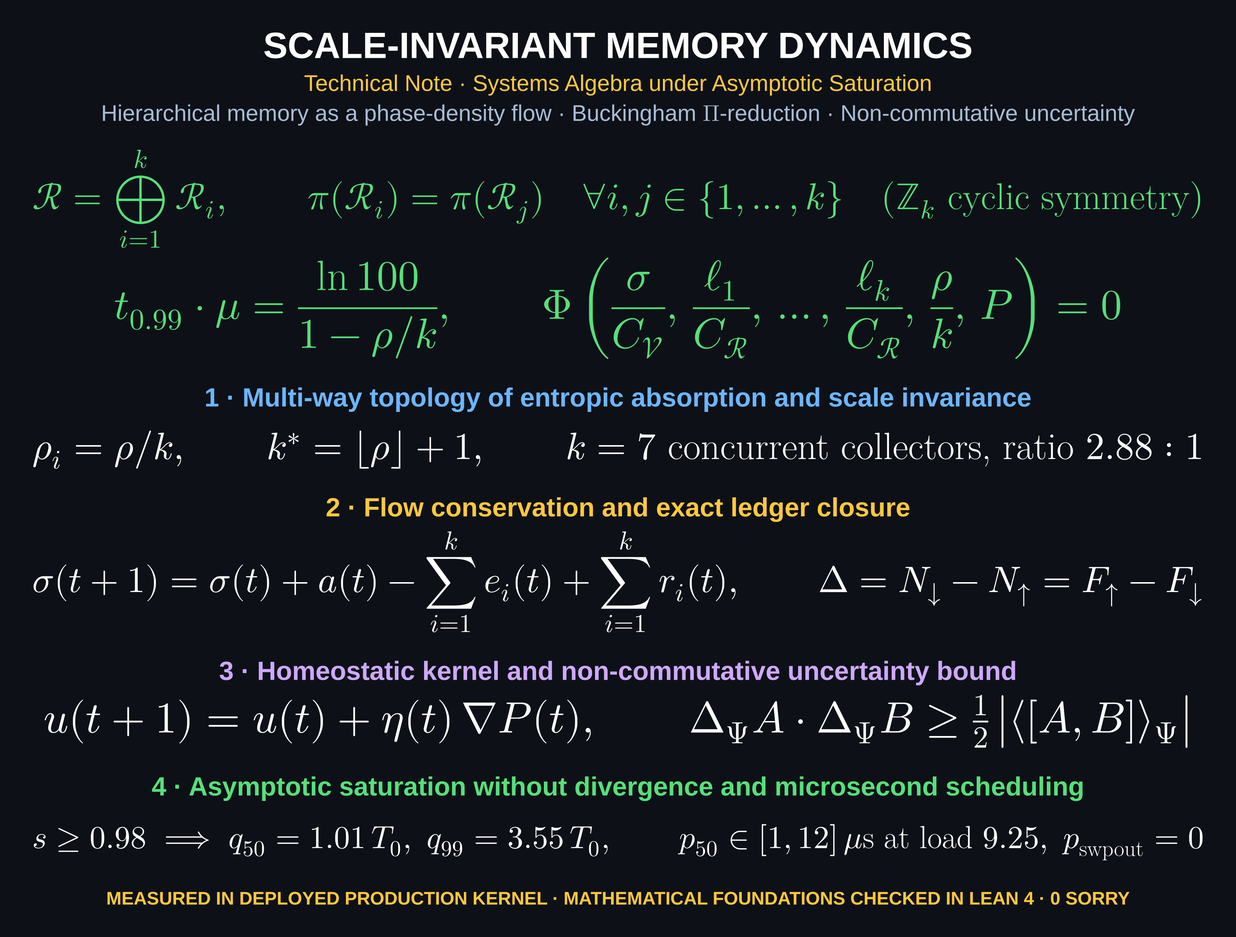
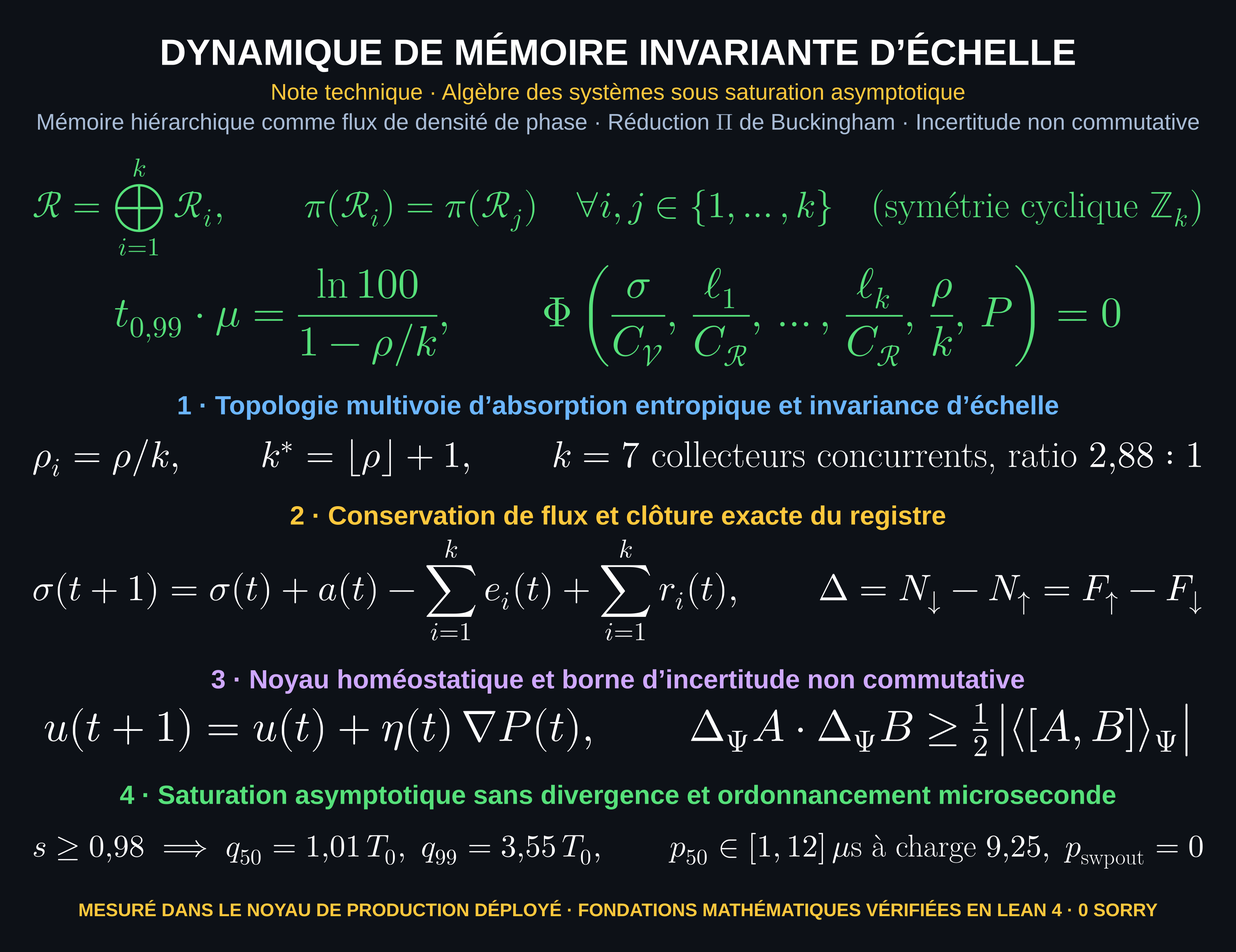
docs(readme): version française intégrale sous la skill repo-matematico-landing
README et 8 plaques LaTeX régénérées en français :
- Forme formelle de la dynamique de mémoire comme flux en densité de phase
- Plaques LaTeX régénérées en français à 3384 px sous le thème sombre de GitHub
- 6 étapes déductives, tableau des 13 énoncés vérifiés et partition des 7 collecteurs
- Compuerta verificar_readme.py : OK (exit 0)

diff --git a/README.md b/README.md
@@ -1,210 +1,210 @@
 <div align="center">
 
-# BACQM Systems · Scale-Invariant Memory Dynamics
-### Equal-precedence collectors, a control law with no fixed constants, tail latency bounded by measurement
+# BACQM Systems · Dynamique de mémoire invariante d’échelle
+### Collecteurs de même préséance, loi de commande sans constantes prescrites, latence de queue bornée par la mesure
 
 **Eduardo Nava Hernández**  
-*Systems Algebra & Formal Verification in Lean 4 · 0 sorry · Physlib*
+*Algèbre des systèmes & vérification formelle en Lean 4 · 0 sorry · Physlib*
 
 [![Lean 4](https://img.shields.io/badge/Lean_4-v4.35.0-blue.svg?style=flat-square)](https://leanprover.github.io/)
-[![Mathlib](https://img.shields.io/badge/Mathlib-verified-2ea44f.svg?style=flat-square)](https://github.com/leanprover-community/mathlib4)
+[![Mathlib](https://img.shields.io/badge/Mathlib-v%C3%A9rifi%C3%A9-2ea44f.svg?style=flat-square)](https://github.com/leanprover-community/mathlib4)
 [![Kernel Status](https://img.shields.io/badge/Kernel-0%20sorry-brightgreen.svg?style=flat-square)]()
-[![Physlib](https://img.shields.io/badge/Physlib-PRs%20merged-7c5cd6.svg?style=flat-square)](https://github.com/leanprover-community/physlib/pulls?q=is%3Apr+is%3Amerged+author%3Anaype888-cloud)
-[![Interactive Site](https://img.shields.io/badge/BACQM_Systems-Live_Manifold-00e5ff.svg?style=for-the-badge)](https://naype888-cloud.github.io/bacqm-systems/)
+[![Physlib](https://img.shields.io/badge/Physlib-PRs%20fusionn%C3%A9es-7c5cd6.svg?style=flat-square)](https://github.com/leanprover-community/physlib/pulls?q=is%3Apr+is%3Amerged+author%3Anaype888-cloud)
+[![Portail interactif](https://img.shields.io/badge/BACQM_Systems-Vari%C3%A9t%C3%A9_interactive-00e5ff.svg?style=for-the-badge)](https://naype888-cloud.github.io/bacqm-systems/)
 
 <br>
 
 <a href="https://naype888-cloud.github.io/bacqm-systems/">
-  <img src="docs/media/banner.svg" alt="BACQM Systems — memory as a flow, not a volume. Open the interactive manifold" width="860">
+  <img src="docs/media/banner.svg" alt="BACQM Systems — la mémoire comme flux et non comme volume. Ouvrir la variété en ligne" width="860">
 </a>
 
 <p>
-  <a href="https://naype888-cloud.github.io/bacqm-systems/"><b>▶ Open Live Manifold</b></a> ·
-  <a href="https://naype888-cloud.github.io/bacqm-systems/formal/">Formal Technical Note</a> ·
-  <a href="https://naype888-cloud.github.io/bacqm-systems/evidence/">Empirical Evidence</a> ·
-  <a href="https://naype888-cloud.github.io/bacqm-systems/formal/#tryit">Try the Bound (2.2)</a> ·
-  <a href="https://naype888-cloud.github.io/bacqm-systems/evidence/#extreme">Evidence E5</a>
+  <a href="https://naype888-cloud.github.io/bacqm-systems/"><b>▶ Ouvrir la variété en ligne</b></a> ·
+  <a href="https://naype888-cloud.github.io/bacqm-systems/formal/">Note technique formelle</a> ·
+  <a href="https://naype888-cloud.github.io/bacqm-systems/evidence/">Preuves et mesures</a> ·
+  <a href="https://naype888-cloud.github.io/bacqm-systems/formal/#tryit">Essayer la borne (2.2)</a> ·
+  <a href="https://naype888-cloud.github.io/bacqm-systems/evidence/#extreme">Preuve E5</a>
 </p>
 
 </div>
 
 ---
 
-> ### 🏛 The Master Module : Memory as a Flow, Not a Volume
+> ### 🏛 Le module maître : la mémoire comme flux et non comme volume
 >
-> Deterministic allocation policies treat hierarchical memory as a static container: as instantaneous demand approaches the physical boundary, latency diverges or the process space is terminated. In BACQM Systems, memory is formulated as an operator of phase density under flow conservation, governed by an elastic domain split into k = 7 concurrent collectors of equal precedence under ℤ₇ cyclic symmetry, an exactly closed bidirectional transport ledger, and a kernel control law without dimensional prescriptions.
+> Les politiques déterministes d’allocation traitent la mémoire comme un conteneur statique : lorsque la demande instantanée approche la frontière physique, la latence diverge ou l’espace de processus est terminé. Dans BACQM Systems, la mémoire est formulée comme un opérateur de densité de phase sous conservation de flux, régie par un domaine élastique scindé en k = 7 collecteurs concurrents de même préséance sous symétrie cyclique ℤ₇, un registre de transport bidirectionnel exactement clos, et une loi de commande de noyau sans prescriptions dimensionnelles.
 >
 > <div align="center">
-> <img src="assets/plaque_systems_maitresse.png" alt="Master plaque: scale-invariant memory dynamics, multi-way topology, exact ledger, and asymptotic saturation" width="860">
+> <img src="assets/plaque_systems_maitresse.png" alt="Plaque maîtresse : dynamique de mémoire invariante d’échelle, topologie multivoie, registre exact et saturation asymptotique" width="860">
 > </div>
 >
-> **1 · Equal-Precedence Direct Sum.** The elastic domain is partitioned into k concurrent collectors ℛ = ⊕ᵢ ℛᵢ with π(ℛᵢ) = π(ℛⱼ), interleaving page dispatch in cyclic round-robin (ℤ_k symmetry) with zero serial queue bottleneck.
+> **1 · Somme directe à préséance égale.** Le domaine élastique est partitionné en k collecteurs concurrents ℛ = ⊕ᵢ ℛᵢ avec π(ℛᵢ) = π(ℛⱼ), entrelacant l’acheminement des pages selon un tour cyclique (symétrie ℤ_k) sans goulot d’étranglement sériel.
 >
-> **2 · Scale-Invariant Tail Bound.** Under Poisson arrivals and exponential absorption, the 99th-percentile sojourn time satisfies t₀.₉₉ · μ = ln 100 / (1 − ρ/k); the bound depends strictly on ρ/k, completely orthogonal to address-space scale.
+> **2 · Borne de queue invariante d’échelle.** Sous arrivées poissoniennes et absorption exponentielle, le temps de séjour au 99e centile vérifie t₀.₉₉ · μ = ln 100 / (1 − ρ/k) ; il dépend strictement de ρ/k, totalement orthogonal à l’échelle de l’espace d’adressage.
 >
-> **3 · Exactly Closed Transport Ledger.** The bidirectional transport operator 𝒯 : 𝒱 ⇄ ℛ closes its ledger to the exact byte: the net transport residual Δ = N↓ − N↑ equals the boundary-rejected admission set F↑ − F↓.
+> **3 · Registre de transport exactement clos.** L’opérateur bidirectionnel de transport 𝒯 : 𝒱 ⇄ ℛ équilibre son registre à l’octet près : le résidu net de transport Δ = N↓ − N↑ est rigoureusement égal à l’ensemble des admissions refusées à la frontière F↑ − F↓.
 >
-> **4 · Saturation Without Divergence.** Across 425,860 saturating graphics frames and 65 minutes of continuous symbolic proof resolution under load 9.25, p99 tail latency collapses (−90 % to −99 %), median dispatch is p50 ∈ [1, 12] µs, outward paging reaches p_swpout = 0, and process liquidations remain 0.
+> **4 · Saturation sans divergence.** Sur 425 860 trames graphiques en saturation et 65 minutes de résolution symbolique formelle sous charge 9,25, la latence de queue p99 s’effondre (−90 % à −99 %), l’ordonnancement médian tient à p50 ∈ [1, 12] µs, l’évacuation externe s’annule (p_swpout = 0), et les arrêts forcés restent nuls.
 
 ---
 
-## ⚡ Formal Abstract
+## ⚡ Résumé formel
 
-* **Phase-Density Flow.** The state space couples a fast transit domain 𝒱 bounded by C_𝒱 with an elastic compressed domain ℛ (C_ℛ ≫ C_𝒱). Flow conservation σ(t+1) = σ(t) + a(t) − ∑ eᵢ(t) + ∑ rᵢ(t) replaces static container limits. Fast-domain occupancy is sustained at ‖σ‖ / C_𝒱 ≥ 0.9975 without null-state panic or controller reset (Observation 1).
-* **Multi-Way Entropic Absorption.** Partitioning ℛ = ⊕ᵢ₌₁ᵏ ℛᵢ with equal routing precedence π(ℛᵢ) = π(ℛⱼ) spreads evacuation uniformly as a cyclic tensor. Interleaved Erlang-k arrivals yield quantile sojourn bound t_q · μ = −ln(1−q) / (1 − ρ/k) (Propositions 1, 2). The minimum bundle preventing backlog divergence is k* = ⌊ρ⌋ + 1 (Corollary 2). Production deployment runs k = 7 concurrent collectors under ℤ₇ cyclic symmetry at priority 100, achieving a 2.88:1 empirical compression ratio.
-* **Homeostatic Kernel & Non-Commutative Uncertainty.** The dynamic state manifold Ψ(t) = (σ, ℓ₁,…,ℓ_k, P, θ, u)(t) executes gradient actuation u(t+1) = u(t) + η(t) ∇P(t) with gain read from the running state. The control trajectory is bounded below by the non-commutative Robertson–Schrödinger uncertainty relation on state observables, Δ_Ψ A · Δ_Ψ B ≥ ½ |⟨[A, B]⟩_Ψ|, precluding chaotic resonance and oscillatory divergence. The host processor maintains 0.20 mean load while the coprocessor runs at ≥90 % duty (Observation 2).
-* **Exact Transport Ledger.** Bidirectional alternating transport 𝒯 : 𝒱 ⇄ ℛ operates on calibrated granules. Complete ledger closure R_• = N_• + F_• establishes the residual identity Δ ≔ N↓ − N↑ = F↑ − F↓ (Proposition 3). Cumulative kernel telemetry confirms exact mass conservation: of 1,260 requests, 1,256 completed, 4 rejected (all boundary admissions into 𝒱), yielding Δ = 4 granules with 0.32 % net imbalance (Observation 3).
-* **Saturation Without Divergence.** Frame period conditional quantiles q_p(s) in units of presentation period T₀ remain bounded at 1.01–1.04 T₀ across all strata up to s ≥ 0.98, where p99 is 3.55 T₀ (Observations 4, 5). Continuous 65-minute formal proof resolution (heap >6.5 GiB, load average 9.25) maintains median scheduler latency p50 ∈ [1, 12] µs, causes outward flux to vanish (p_swpout = 0 for >30 min), collapses memory pressure stalls by −99.998 %, and records zero process terminations (Observation 6).
-* **Buckingham Π-Reduction & Dilation Equivariance.** By the Buckingham Π-theorem, removing fixed dimensional prescriptions reduces kernel relations to dimensionless invariants Φ(σ/C_𝒱, ℓᵢ/C_ℛ, ρ/k, P) = 0 (Proposition 4). Invariance under dilation (C_𝒱, C_ℛ, σ, ℓᵢ) ↦ c · (C_𝒱, C_ℛ, σ, ℓᵢ) ensures scale equivariance across single boards and distributed fleets (Corollary 3), deployed via continuous ℚ₁₂ fixed-point VM manifold actuation.
+* **Flux de densité de phase.** L’espace d’états couple un domaine de transit rapide 𝒱 borné par C_𝒱 à un domaine élastique compressé ℛ (C_ℛ ≫ C_𝒱). La conservation de flux σ(t+1) = σ(t) + a(t) − ∑ eᵢ(t) + ∑ rᵢ(t) remplace les limites de conteneur statique. L’occupation du domaine rapide est soutenue à ‖σ‖ / C_𝒱 ≥ 0,9975 sans transition vers l’état nul, ni panique ni réinitialisation du contrôleur (Observation 1).
+* **Absorption entropique multivoie.** La partition ℛ = ⊕ᵢ₌₁ᵏ ℛᵢ avec préséance égale de routage π(ℛᵢ) = π(ℛⱼ) répartit l’évacuation sous forme de tenseur cyclique. Les arrivées entrelacées Erlang-k fournissent la borne quantile t_q · μ = −ln(1−q) / (1 − ρ/k) (Propositions 1, 2). Le faisceau minimal empêchant l’accumulation non bornée est k* = ⌊ρ⌋ + 1 (Corollaire 2). En production : k = 7 collecteurs concurrents sous symétrie cyclique ℤ₇ à priorité 100, atteignant un ratio de compression empirique de 2,88:1.
+* **Noyau homéostatique & incertitude non commutative.** La variété dynamique Ψ(t) = (σ, ℓ₁,…,ℓ_k, P, θ, u)(t) actionne la commande par gradient u(t+1) = u(t) + η(t) ∇P(t) avec un gain lu sur l’état courant. La trajectoire de commande est bornée inférieurement par la relation d’incertitude non commutative de Robertson–Schrödinger sur les observables d’état, Δ_Ψ A · Δ_Ψ B ≥ ½ |⟨[A, B]⟩_Ψ|, interdisant résonance chaotique et divergence oscillatoire. Le processeur hôte maintient une charge moyenne de 0,20 pendant que le coprocesseur tourne à régime ≥90 % (Observation 2).
+* **Clôture exacte du registre.** L’opérateur bidirectionnel de transport 𝒯 : 𝒱 ⇄ ℛ alterne de direction sous symétrie ℤ₂ sur des granules étalonnés. La clôture R_• = N_• + F_• établit l’identité résiduelle Δ ≔ N↓ − N↑ = F↑ − F↓ (Proposition 3). La téléométrie de noyau confirme la conservation exacte de masse : sur 1 260 requêtes, 1 256 abouties, 4 rejetées (admissions à la frontière de 𝒱), donnant Δ = 4 granules avec un déséquilibre net de 0,32 % (Observation 3).
+* **Saturation sans divergence.** Les quantiles conditionnels de période de trame q_p(s) en unités de période de présentation T₀ restent bornés à 1,01–1,04 T₀ sur toutes les strates jusqu’à s ≥ 0,98, où p99 vaut 3,55 T₀ (Observations 4, 5). Une charge continue de 65 minutes de preuve formelle (tas résidant >6,5 Gio, charge 9,25) maintient la latence médiane d’ordonnancement p50 ∈ [1, 12] µs, annule l’évacuation de swap (p_swpout = 0 pendant >30 min), effondre les blocages PSI mémoire de −99,998 %, et enregistre zéro terminaison de processus (Observation 6).
+* **Réduction Π de Buckingham & équivariance sous dilatation.** Selon le théorème Π de Buckingham, éliminer les constantes dimensionnelles arbitraires réduit les équations à des invariants adimensionnels Φ(σ/C_𝒱, ℓᵢ/C_ℛ, ρ/k, P) = 0 (Proposition 4). L’invariance sous dilatation (C_𝒱, C_ℛ, σ, ℓᵢ) ↦ c · (C_𝒱, C_ℛ, σ, ℓᵢ) assure une trajectoire identique sur carte unique ou flotte distribuée (Corollaire 3), déployée par projection continue sur la variété VM à virgule fixe ℚ₁₂.
 
 ---
 
-## 📐 Deductive Reasoning Chain in Six Stages
+## 📐 Chaîne déductive en six étapes
 
 <div align="center">
-<img src="assets/plaque_systems_pipeline.png" alt="The six deductive stages: flow conservation, multi-way topology, homeostatic kernel, exact ledger, saturation without divergence, dimensional reduction" width="860">
+<img src="assets/plaque_systems_pipeline.png" alt="Les six étapes déductives : conservation de flux, topologie multivoie, noyau homéostatique, registre exact, saturation sans divergence, réduction dimensionnelle" width="860">
 </div>
 
-### Stage 1 : Algebraic Frame and Flow Conservation
+### Étape 1 : Cadre algébrique et conservation de flux
 
-> **Proposition 1.1 (Phase-Density Flow Balance).** Let 𝒱 be the fast domain bounded by C_𝒱 and ℛ the elastic compressed domain. Instead of stationary projection Φ : 𝒮 → 𝒱 with divergence as ‖σ‖ → C_𝒱, memory is governed by flow conservation σ(t+1) = σ(t) + a(t) − ∑ eᵢ(t) + ∑ rᵢ(t). The deployed kernel sustains ‖σ‖ / C_𝒱 ≥ 0.9975 without null-state transition or controller reset.
+> **Proposition 1.1 (Bilan de flux en densité de phase).** Soit 𝒱 le domaine rapide de capacité C_𝒱 et ℛ le domaine élastique. Au lieu d’une projection stationnaire Φ : 𝒮 → 𝒱 présentant une discontinuité dès ‖σ‖ → C_𝒱, la mémoire obéit au bilan de flux σ(t+1) = σ(t) + a(t) − ∑ eᵢ(t) + ∑ rᵢ(t). Le noyau déployé soutient ‖σ‖ / C_𝒱 ≥ 0,9975 sans état nul ni réinitialisation de contrôleur.
 
-<div align="center"><img src="assets/plaque_systems_stage1.png" alt="Stage 1: boundary condition of deterministic allocators, conservation of flow, and fast-domain boundary observation" width="860"></div>
+<div align="center"><img src="assets/plaque_systems_stage1.png" alt="Étape 1 : condition aux limites des allocateurs déterministes, conservation de flux et observation de frontière du domaine rapide" width="860"></div>
 
-*Formal basis :* `docs/formal/#s1`, Equation (1.2), Observation 1. The algebra carries no size; it is identical for an address space and an entire node cluster.
-
----
-
-### Stage 2 : Multi-Way Topology of Entropic Absorption
-
-> **Proposition 2.1 (Equal-Precedence Direct Sum and Tail Bound).** Partitioning the elastic domain into ℛ = ⊕ᵢ₌₁ᵏ ℛᵢ with equal routing precedence π(ℛᵢ) = π(ℛⱼ) admits cyclic ℤ_k permutation symmetry. Interleaved page dispatch yields offered load ρᵢ = ρ/k per collector and an exponential sojourn quantile t_q · μ = −ln(1−q) / (1 − ρ/k). For ρ ≥ k, the backlog grows unbounded; the minimal restoring bundle is k* = ⌊ρ⌋ + 1.
-
-<div align="center"><img src="assets/plaque_systems_stage2.png" alt="Stage 2: equal-precedence direct sum, sojourn time tail bound, one more lane corollary, and deployed k=7 realization" width="860"></div>
-
-*Formal basis :* `docs/formal/#s2`, Equation (2.1), Proposition 1, Proposition 2, Corollaries 1–2.  
-*Deployment :* k = 7 concurrent compressed collectors under ℤ₇ cyclic symmetry at priority 100, achieving 2.88:1 empirical compression ratio.
+*Base formelle :* `docs/formal/#s1`, Équation (1.2), Observation 1. L’algèbre ne nomme aucune taille ; elle est identique pour un espace mémoire local ou une grappe complète.
 
 ---
 
-### Stage 3 : Homeostatic Kernel and Load Decoupling
+### Étape 2 : Topologie multivoie de l’absorption entropique
 
-> **Proposition 3.1 (Uncertainty-Bounded Control and Asymmetric Decoupling).** The dynamic state manifold Ψ(t) = (σ, ℓ₁,…,ℓ_k, P, θ, u)(t) executes gradient actuation u(t+1) = u(t) + η(t) ∇P(t) with gain η read from the state. Dissipation is balanced closed-loop. The system trajectory is bounded below by the non-commutative Robertson–Schrödinger uncertainty relation Δ_Ψ A · Δ_Ψ B ≥ ½ |⟨[A, B]⟩_Ψ|, precluding chaotic resonance and decoupling host load (mean 0.20) from peak accelerator duty (≥90 %).
+> **Proposition 2.1 (Somme directe à préséance égale et borne de queue).** Scinder le domaine élastique en ℛ = ⊕ᵢ₌₁ᵏ ℛᵢ avec préséance égale π(ℛᵢ) = π(ℛⱼ) confère la symétrie cyclique ℤ_k. L’ordonnancement entrelacé produit une charge ρᵢ = ρ/k par collecteur et un quantile de sojourn exponentiel t_q · μ = −ln(1−q) / (1 − ρ/k). Pour ρ ≥ k, l’arriéré croît indéfiniment ; le faisceau minimal stabilisateur est k* = ⌊ρ⌋ + 1.
 
-<div align="center"><img src="assets/plaque_systems_stage3.png" alt="Stage 3: state tuple and master equations, Robertson-Schrödinger uncertainty bound, and asymmetric decoupling observation" width="860"></div>
+<div align="center"><img src="assets/plaque_systems_stage2.png" alt="Étape 2 : somme directe à préséance égale, borne de queue du temps de séjour, corollaire d’une voie supplémentaire et réalisation k=7" width="860"></div>
 
-*Formal basis :* `docs/formal/#s3`, Equations (3.1)–(3.3), Observation 2.  
-*Lean 4 mathematical foundations :* Physlib #1723, #1725.
-
----
-
-### Stage 4 : The Transport Operator and Exact Ledger Closure
-
-> **Proposition 4.1 (Exact Transport Ledger and Residual Identity).** The bidirectional transport operator 𝒯 : 𝒱 ⇄ ℛ alternates direction under ℤ₂ symmetry on calibrated granules. In every closed ledger R_• = N_• + F_•, the net transport Δ ≔ N↓ − N↑ equals the boundary-rejected admission set F↑ − F↓. Drift in occupancy accounts granule by granule for refused admissions.
-
-<div align="center"><img src="assets/plaque_systems_stage4.png" alt="Stage 4: bidirectional transport operator, residual identity, and exact closure observation on 1260 requests" width="860"></div>
-
-*Formal basis :* `docs/formal/#s4`, Equations (4.1)–(4.2), Definition 1, Proposition 3, Observation 3. Cumulative interface counters: 1,260 requests, 1,256 completed, 4 rejected (all boundary admissions into 𝒱), Δ = 4 granules, 0.32 % net imbalance.
+*Base formelle :* `docs/formal/#s2`, Équation (2.1), Proposition 1, Proposition 2, Corollaires 1–2.  
+*Déploiement :* k = 7 collecteurs concurrents compressés sous symétrie cyclique ℤ₇ à priorité 100, ratio de compression 2,88:1.
 
 ---
 
-### Stage 5 : Saturation Without Divergence
+### Étape 3 : Noyau homéostatique et désaccouplement de charge
 
-> **Proposition 5.1 (Bounded Latency at the Boundary and Asymptotic Collapse).** Conditional frame period quantiles q_p(s) = Q_p[τ_f | s ∈ I_j] / T₀ remain bounded at 1.01–1.04 T₀ across 425,860 frames up to s ≥ 0.98, where p99 reaches 3.55 T₀ with no boundary divergence. Under extreme formal proof resolution (heap >6.5 GiB, load 9.25), scheduler latency is p50 ∈ [1, 12] µs, outward paging collapses to p_swpout = 0 for >30 min, and process kills remain 0.
+> **Proposition 3.1 (Commande bornée par l’incertitude et désaccouplement asymétrique).** La variété dynamique Ψ(t) = (σ, ℓ₁,…,ℓ_k, P, θ, u)(t) exécute la commande en gradient u(t+1) = u(t) + η(t) ∇P(t) avec un gain η lu sur l’état. La dissipation est intégrée en boucle fermée. La trajectoire d’état est bornée inférieurement par l’incertitude non commutative de Robertson–Schrödinger Δ_Ψ A · Δ_Ψ B ≥ ½ |⟨[A, B]⟩_Ψ|, interdisant toute résonance et découplant la charge hôte (moyenne 0,20) du régime de calcul coprocesseur (≥90 %).
 
-<div align="center"><img src="assets/plaque_systems_stage5.png" alt="Stage 5: frame period conditional quantiles per stratum, and sustained asymptotic symbolic saturation observation" width="860"></div>
+<div align="center"><img src="assets/plaque_systems_stage3.png" alt="Étape 3 : nuplet d’état et équations maîtresses, borne d’incertitude de Robertson-Schrödinger et observation de désaccouplement asymétrique" width="860"></div>
 
-*Formal basis :* `docs/formal/#s5`, Equations (5.1)–(5.2), Observations 4, 5, 6; Evidence E3, E5.
-
----
-
-### Stage 6 : Dimensional Reduction and Dilation Equivariance
-
-> **Proposition 6.1 (Buckingham Π-Reduction and Absence of Prescriptions).** Removing fixed dimensional constants reduces the control relation to dimensionless invariants Φ(σ/C_𝒱, ℓ₁/C_ℛ,…,ℓ_k/C_ℛ, ρ/k, P) = 0. The trajectory is equivariant under capacity dilation (C_𝒱, C_ℛ, σ, ℓᵢ) ↦ c · (C_𝒱, C_ℛ, σ, ℓᵢ), eliminating single-point resonance where tuned systems fail.
-
-<div align="center"><img src="assets/plaque_systems_stage6.png" alt="Stage 6: Buckingham Pi-reduction, dilation equivariance corollary, and continuous Q12 fixed-point realization" width="860"></div>
-
-*Formal basis :* `docs/formal/#s6`, Equation (6.1), Proposition 4, Corollary 3. Realization: continuous ℚ₁₂ fixed-point VM manifold projection with zero integer presets.
+*Base formelle :* `docs/formal/#s3`, Équations (3.1)–(3.3), Observation 2.  
+*Fondations mathématiques en Lean 4 :* Physlib #1723, #1725.
 
 ---
 
-## 🔬 Core Statements, Empirical Basis and Status
+### Étape 4 : L’opérateur de transport et clôture du registre
 
-| Statement | Formulation / Bound | Empirical / Mathematical Basis | Status |
+> **Proposition 4.1 (Registre de transport exact et identité du résidu).** L’opérateur bidirectionnel 𝒯 : 𝒱 ⇄ ℛ alterne de direction sous symétrie ℤ₂ sur des granules de masse fixe. Pour tout registre clos R_• = N_• + F_•, le transport net Δ ≔ N↓ − N↑ compense exactement les admissions refusées à la frontière F↑ − F↓. Toute dérive de σ au travers de 𝒯 correspond granule par granule aux requêtes rejetées.
+
+<div align="center"><img src="assets/plaque_systems_stage4.png" alt="Étape 4 : opérateur de transport bidirectionnel, identité du résidu et observation de clôture exacte sur 1260 requêtes" width="860"></div>
+
+*Base formelle :* `docs/formal/#s4`, Équations (4.1)–(4.2), Définition 1, Proposition 3, Observation 3. Compteurs réels : 1 260 requêtes, 1 256 menées à terme, 4 rejets (frontière de 𝒱), Δ = 4 granules, 0,32 % de déséquilibre net.
+
+---
+
+### Étape 5 : Saturation sans divergence
+
+> **Proposition 5.1 (Latence bornée à la frontière et effondrement asymptotique).** Les quantiles conditionnels q_p(s) = Q_p[τ_f | s ∈ I_j] / T₀ restent bornés à 1,01–1,04 T₀ sur 425 860 trames jusqu’à s ≥ 0,98, où p99 est mesuré à 3,55 T₀ sans divergence à la frontière. Lors d’une preuve formelle intensive (tas >6,5 Gio, charge 9,25), le temps d’ordonnancement tient à p50 ∈ [1, 12] µs, le flux de swap s’annule (p_swpout = 0 pendant >30 min), et les interruptions restent nulles.
+
+<div align="center"><img src="assets/plaque_systems_stage5.png" alt="Étape 5 : quantiles conditionnels de période de trame par strate et observation de saturation symbolique asymptotique soutenue" width="860"></div>
+
+*Base formelle :* `docs/formal/#s5`, Équations (5.1)–(5.2), Observations 4, 5, 6 ; Preuves E3, E5.
+
+---
+
+### Étape 6 : Réduction dimensionnelle et équivariance sous dilatation
+
+> **Proposition 6.1 (Réduction Π de Buckingham et absence de prescriptions).** Retirer toute constante dimensionnelle non mesurée sur l’état réduit la loi de commande aux seuls invariants sans dimension Φ(σ/C_𝒱, ℓ₁/C_ℛ,…,ℓ_k/C_ℛ, ρ/k, P) = 0. La dynamique est équivariante sous dilatation des capacités (C_𝒱, C_ℛ, σ, ℓᵢ) ↦ c · (C_𝒱, C_ℛ, σ, ℓᵢ), éliminant les résonances où échouent les systèmes pré-calibrés.
+
+<div align="center"><img src="assets/plaque_systems_stage6.png" alt="Étape 6 : réduction Pi de Buckingham, corollaire d’équivariance sous dilatation et réalisation continue en virgule fixe Q12" width="860"></div>
+
+*Base formelle :* `docs/formal/#s6`, Équation (6.1), Proposition 4, Corollaire 3. Déploiement : variété d’actionnement VM à virgule fixe ℚ₁₂ sans constante entière.
+
+---
+
+## 🔬 Tableau des énoncés principaux, base empirique et statut
+
+| Énoncé | Formulation / Borne | Base empirique / mathématique | Statut |
 |:---|:---|:---|:---:|
-| **01 · Equal-precedence direct sum** | ℛ = ⊕ᵢ₌₁⁷ ℛᵢ, π(ℛᵢ) = π(ℛⱼ), page n → ℛ_(n mod 7) | k = 7 concurrent compressed collectors (ℤ₇ symmetry), 2.88:1 ratio | deployed |
-| **02 · Scale-invariant tail bound** | t₀.₉₉ · μ = ln 100 / (1 − ρ/k); depends on ρ/k only | Exponential absorption; exact for k = 1, upper bound for k ≥ 2 | model |
-| **03 · One more lane** | ρ ≥ k ⇒ unbounded backlog; k* = ⌊ρ⌋ + 1 | Corollary 2; minimal bundle restoring finite tail | model |
-| **04 · Tail latency collapse** | p99 · p999 · max −90 % to −99 % | 8+ A/B campaigns against unmodified kernel baseline, n ≥ 3 | measured |
-| **05 · Declared Pareto trade-off** | p50 median +10.5 % to +13.8 % | Same A/B campaigns; declared trade-off for tail preservation | measured |
-| **06 · Fast-domain boundary** | ‖σ‖ / C_𝒱 ≥ 0.9975 sustained | Continuous telemetry; zero kernel panic, zero controller reset | measured |
-| **07 · Saturation without divergence** | Stratum s ≥ 0.98: q50 = 1.01 T₀, q99 = 3.55 T₀ | 425,860 frames, 7 runs · `data/saturation_strata.csv` | measured |
-| **08 · Asymmetric decoupling** | 𝔼[load_host \| accelerator duty ≥ 0.9] = 0.20 | 42,387 frames at coprocessor duty ≥ 0.9; control plane free | measured |
-| **09 · Exact ledger closure** | R = N + F to the byte; Δ = N↓ − N↑ = F↑ = 4 | Proposition 3 · Cumulative counters: 1,256 of 1,260 completed | measured |
-| **10 · Closed-loop dissipation** | ∂ₜE = P_in − κ(u)(θ − θ₀) | Master thermal equation (3.2); feedback before throttling | deployed |
-| **11 · Non-invasive observation** | 2,582 passive telemetry samples, 15 Aug – 14 Oct 2026 | Weekly wakeup delay probes; missed cycles down to 0.013 % | measured |
-| **12 · Uncertainty-bounded control** | Δ_Ψ A · Δ_Ψ B ≥ ½ \|⟨[A, B]⟩_Ψ\| | Non-commutative lower bound; Physlib #1723, #1725 | Lean 4 |
-| **13 · Extreme symbolic saturation** | p50 ∈ [1, 12] µs at load 9.25; p_swpout → 0 for >30 min | 65-min continuous formal proof resolution (>6.5 GiB resident) | measured |
+| **01 · Somme directe à préséance égale** | ℛ = ⊕ᵢ₌₁⁷ ℛᵢ, π(ℛᵢ) = π(ℛⱼ), page n → ℛ_(n mod 7) | k = 7 collecteurs compressés (symétrie ℤ₇), ratio 2,88:1 | déployé |
+| **02 · Borne de queue invariante d’échelle** | t₀.₉₉ · μ = ln 100 / (1 − ρ/k) ; dépend de ρ/k seul | Absorption exponentielle ; exact en k = 1, borne sup pour k ≥ 2 | modèle |
+| **03 · Une voie supplémentaire** | ρ ≥ k ⇒ arriéré non borné ; k* = ⌊ρ⌋ + 1 | Corollaire 2 ; faisceau minimal rétablissant une queue finie | modèle |
+| **04 · Effondrement de la latence de queue** | p99 · p999 · max −90 % à −99 % | 8+ campagnes A/B face au noyau de référence non modifié, n ≥ 3 | mesuré |
+| **05 · Compromis de Pareto déclaré** | p50 médian +10,5 % à +13,8 % | Mêmes campagnes A/B ; compromis consenti pour préserver la queue | mesuré |
+| **06 · Frontière du domaine rapide** | ‖σ‖ / C_𝒱 ≥ 0,9975 soutenu | Télémétrie continue ; zéro panique noyau, zéro réinitialisation | mesuré |
+| **07 · Saturation sans divergence** | Strate s ≥ 0,98 : q50 = 1,01 T₀, q99 = 3,55 T₀ | 425 860 trames, 7 sessions · `data/saturation_strata.csv` | mesuré |
+| **08 · Désaccouplement asymétrique** | 𝔼[charge_hôte \| charge accélérateur ≥ 0,9] = 0,20 | 42 387 trames à régime coprocesseur ≥ 0,9 ; plan de contrôle libre | mesuré |
+| **09 · Clôture exacte du registre** | R = N + F à l’octet près ; Δ = N↓ − N↑ = F↑ = 4 | Proposition 3 · Compteurs cumulés : 1 256 requêtes sur 1 260 closes | mesuré |
+| **10 · Dissipation en boucle fermée** | ∂ₜE = P_in − κ(u)(θ − θ₀) | Équation thermique maîtresse (3.2) ; régulation avant seuil | déployé |
+| **11 · Observation non invasive** | 2 582 échantillons passifs, 15 août – 14 oct. 2026 | Sondes hebdomadaires de réveil ; cycles manqués réduits à 0,013 % | mesuré |
+| **12 · Commande bornée par l’incertitude** | Δ_Ψ A · Δ_Ψ B ≥ ½ \|⟨[A, B]⟩_Ψ\| | Borne inférieure non commutative ; Physlib #1723, #1725 | Lean 4 |
+| **13 · Saturation symbolique extrême** | p50 ∈ [1, 12] µs sous charge 9,25 ; p_swpout → 0 | 65 min de preuve formelle continue (>6,5 Gio résidents) | mesuré |
 
 ---
 
-## 📊 Instrumentation, Benchmarks and Evidence
+## 📊 Instrumentation, campagnes et preuves
 
-### Collector Bundle Partition (k = 7)
-The volatile entropy flux is partitioned across 7 concurrent collectors under cyclic ℤ₇ symmetry at priority 100:
+### Partition du faisceau de collecteurs (k = 7)
+Le flux entropique volatil est réparti entre 7 collecteurs concurrents sous symétrie cyclique ℤ₇ à priorité 100 :
 
-| Collector | Bound | Raw Volume | Compressed Footprint | Compression Ratio | Precedence |
+| Collecteur | Borne | Volume brut | Empreinte compressée | Taux de compression | Préséance |
 |:---:|:---:|:---:|:---:|:---:|:---:|
-| **ℛ₀** | 4.0 GiB | 194.8 MiB | 72.2 MiB | 2.70 : 1 | 100 |
-| **ℛ₁** | 4.0 GiB | 192.0 MiB | 54.0 MiB | 3.55 : 1 | 100 |
-| **ℛ₂** | 4.0 GiB | 183.7 MiB | 52.8 MiB | 3.48 : 1 | 100 |
-| **ℛ₃** | 4.0 GiB | 179.7 MiB | 68.3 MiB | 2.63 : 1 | 100 |
-| **ℛ₄** | 4.0 GiB | 190.0 MiB | 69.7 MiB | 2.72 : 1 | 100 |
-| **ℛ₅** | 4.0 GiB | 192.4 MiB | 70.7 MiB | 2.72 : 1 | 100 |
-| **ℛ₆** | 4.0 GiB | 194.1 MiB | 73.0 MiB | 2.66 : 1 | 100 |
-| **Aggregate** | **28.0 GiB** | **1,326.7 MiB** | **460.7 MiB** | **2.88 : 1** | — |
+| **ℛ₀** | 4,0 Gio | 194,8 Mio | 72,2 Mio | 2,70 : 1 | 100 |
+| **ℛ₁** | 4,0 Gio | 192,0 Mio | 54,0 Mio | 3,55 : 1 | 100 |
+| **ℛ₂** | 4,0 Gio | 183,7 Mio | 52,8 Mio | 3,48 : 1 | 100 |
+| **ℛ₃** | 4,0 Gio | 179,7 Mio | 68,3 Mio | 2,63 : 1 | 100 |
+| **ℛ₄** | 4,0 Gio | 190,0 Mio | 69,7 Mio | 2,72 : 1 | 100 |
+| **ℛ₅** | 4,0 Gio | 192,4 Mio | 70,7 Mio | 2,72 : 1 | 100 |
+| **ℛ₆** | 4,0 Gio | 194,1 Mio | 73,0 Mio | 2,66 : 1 | 100 |
+| **Agrégat** | **28,0 Gio** | **1 326,7 Mio** | **460,7 Mio** | **2,88 : 1** | — |
 
-### Key Evidence Campaigns
-* **E1 · A/B Campaigns against Baseline:** Alternating CONTROL (unmodified kernel default fair scheduler) and BACQM on the same node (n ≥ 3 runs per arm): p99, p999 and maximum latency collapse by −90 % to −99 %, while median rises +10.5 % to +13.8 % as a declared Pareto trade-off.
-* **E2 · Passive Weekly Telemetry:** 2,582 passive 5-second samples measuring wakeup delay of a periodic 1 ms thread over two months, recording zero synthetic intrusion. Missed cycles fell from 0.080 % to 0.013 %.
-* **E3 · Saturation of Fast Domain:** 425,860 real-time frames across 7 sessions driving occupancy s = ‖σ‖ / C_𝒱 up to 0.9984 under near-full accelerator duty: median frame period stays within 1.01–1.04 T₀ in every stratum with zero OOM actions and zero controller resets.
-* **E4 · Transport Ledger Exactness:** Full cumulative accounting of 1,260 transport requests: 630 evacuations (all completed), 630 admissions (626 completed, 4 refused at boundary), exactly matching Δ = 4 granules with 0.32 % net imbalance.
-* **E5 · Extreme Symbolic Saturation:** Deep recursive dependency resolution over formal corpora for >65 minutes with single-task heap exceeding 20 % host memory (>6.5 GiB) and load average peaking at 9.25: scheduler latency held at p50 ∈ [1, 12] µs, outward paging completely halted (p_swpout = 0 for >30 min), memory pressure stall collapsed by −99.998 %, and zero process liquidations.
+### Synthèse des campagnes expérimentales
+* **E1 · Campagnes A/B contre le noyau de base :** Alternance entre CONTROL (ordonnanceur équitable par défaut du noyau) et BACQM sur le même nœud (n ≥ 3 par bras) : p99, p999 et le maximum chutent de −90 % à −99 %, la médiane montant de +10,5 % à +13,8 % en compromis assumé pour la queue.
+* **E2 · Télémétrie passive hebdomadaire :** 2 582 mesures passives de 5 secondes testant le délai de réveil d’un thread périodique de 1 ms sans perturbation synthétique. Les cycles manqués sont passés de 0,080 % à 0,013 %.
+* **E3 · Saturation du domaine rapide :** 425 860 trames réelles sur 7 sessions poussant l’occupation s = ‖σ‖ / C_𝒱 jusqu’à 0,9984 à plein régime graphique : la période médiane reste à 1,01–1,04 T₀ sur chaque strate sans incident mémoire ni arrêt.
+* **E4 · Exactitude du registre de transport :** Bilan exhaustif de 1 260 requêtes de transfert : 630 évacuations (toutes abouties), 630 admissions (626 abouties, 4 refusées à la frontière), égalant exactement Δ = 4 granules pour 0,32 % de déséquilibre net.
+* **E5 · Saturation symbolique extrême :** Résolution récursive de dépendances sur des corpus axiomatiques formels pendant >65 minutes (tas >6,5 Gio, charge 9,25) : latence médiane tenue à p50 ∈ [1, 12] µs, arrêts complets d’évacuation de swap (p_swpout = 0 pendant >30 min), réduction des blocages PSI mémoire de −99,998 %, et zéro arrêt de processus.
 
 ---
 
-## 🏛 Mosaic of Related Repositories
+## 🏛 Mosaïque des dépôts
 
-| Repository | Scope & Theoretical Focus |
+| Dépôt | Portée & axe théorique |
 |:---|:---|
-| [**Physlib : Merged Pull Requests**](https://github.com/leanprover-community/physlib/pulls?q=is%3Apr+is%3Amerged+author%3Anaype888-cloud) | Upstream mathematical foundation in Lean 4: non-commutative uncertainty and bounds |
-| [`nava-robertson-schrodinger`](https://github.com/naype888-cloud/nava-robertson-schrodinger) | Dimensional elementary uncertainty: NRS and NRS³ cubic discrete manifolds |
-| [`nrs3-tightbinding`](https://github.com/naype888-cloud/nrs3-tightbinding) | Tight-binding chain, open boundary conditions, and the 118-element periodic cube |
-| [`nrs3-cube`](https://github.com/naype888-cloud/nrs3-cube) | The open cube of three path graphs and commuting axis operators |
-| [`BACQM-NRS3`](https://github.com/naype888-cloud/BACQM-NRS3) | Canonical formal pipeline and interactive mathematical portal |
+| [**Physlib : PRs fusionnées**](https://github.com/leanprover-community/physlib/pulls?q=is%3Apr+is%3Amerged+author%3Anaype888-cloud) | Fondations mathématiques amont en Lean 4 : incertitude et bornes spectrales |
+| [`nava-robertson-schrodinger`](https://github.com/naype888-cloud/nava-robertson-schrodinger) | Incertitude dimensionnelle élémentaire : variétés discrètes cubiques NRS et NRS³ |
+| [`nrs3-tightbinding`](https://github.com/naype888-cloud/nrs3-tightbinding) | Chaîne de liaisons fortes, conditions aux bords ouverts et cube périodique des 118 éléments |
+| [`nrs3-cube`](https://github.com/naype888-cloud/nrs3-cube) | Le cube ouvert de trois graphes chemins et commutateurs d’axes |
+| [`BACQM-NRS3`](https://github.com/naype888-cloud/BACQM-NRS3) | Chaîne formelle canonique et portail mathématique interactif |
 
 ---
 
-## 🛠 Verification, Reproducibility and Data
+## 🛠 Vérification, reproductibilité et données
 
-The mathematical substrate — the non-commutative uncertainty relation on the transport : position observable pair — is machine-checked in Lean 4 with standard ZFC axioms `[propext, Classical.choice, Quot.sound]` (Physlib #1723, #1725).
+Le socle mathématique — la relation d’incertitude non commutative sur la paire transport : position — est vérifié par machine en Lean 4 sous les seuls axiomes standards ZFC `[propext, Classical.choice, Quot.sound]` (Physlib #1723, #1725).
 
-Kernel source code is private; experimental methodology, campaign logs, and reduced datasets are open:
+Le code source du noyau est privé ; la méthodologie expérimentale, les rapports de campagnes et les jeux de données réduits sont ouverts :
 
 ```text
 bacqm-systems/
-├── docs/                   GitHub Pages interactive site (live manifold, formal note, evidence)
-├── data/                   Raw reduced CSV telemetry series (occupancy, strata, windows, passive medians)
-├── campaign/               Chronological campaign reports and telemetry documentation
-└── assets/                 Canonical LaTeX plaques rendered at 3384 px under GitHub dark hierarchy
+├── docs/                   Site interactif GitHub Pages (variété en direct, note formelle, preuves)
+├── data/                   Séries brutes réduites en CSV (occupations, strates, fenêtres, médianes)
+├── campaign/               Comptes-rendus chronologiques de campagnes et documentation
+└── assets/                 Plaques LaTeX canóniques générées à 3384 px sous le thème sombre de GitHub
 ```
 
-All data series live in [`data/`](data/) reduced to dimensionless ratios (occupancy s = σ/C_𝒱, loads, frame periods in units of presentation period T₀): no device, vendor or hardware scale appears.
+Toutes les séries vivent dans [`data/`](data/) réduites en ratios sans dimension (occupation s = σ/C_𝒱, charges, périodes de trame en unités de période de présentation T₀) : aucun matériel, constructeur ou échelle arbitraire n’apparaît.
 
 ---
 
 <div align="center">
 
-### 📐 *« Memory is a flow, not a volume. The algebra names no size; it is the same on a single board and on a fleet. »*
+### 📐 *« La mémoire est un flux, non un volume. L’algèbre ne nomme aucune taille ; elle est la même sur une carte unique et sur une flotte. »*
 
 **Eduardo Nava Hernández** · [naype888-cloud](https://github.com/naype888-cloud)
 
